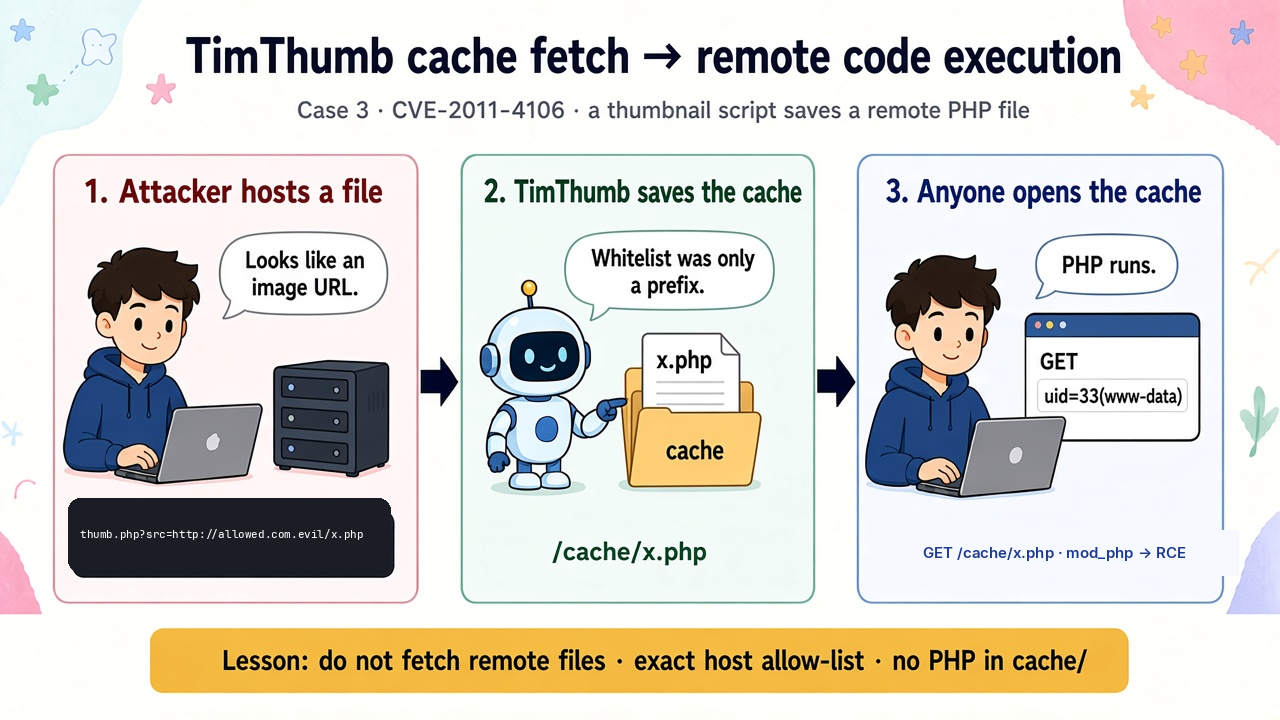
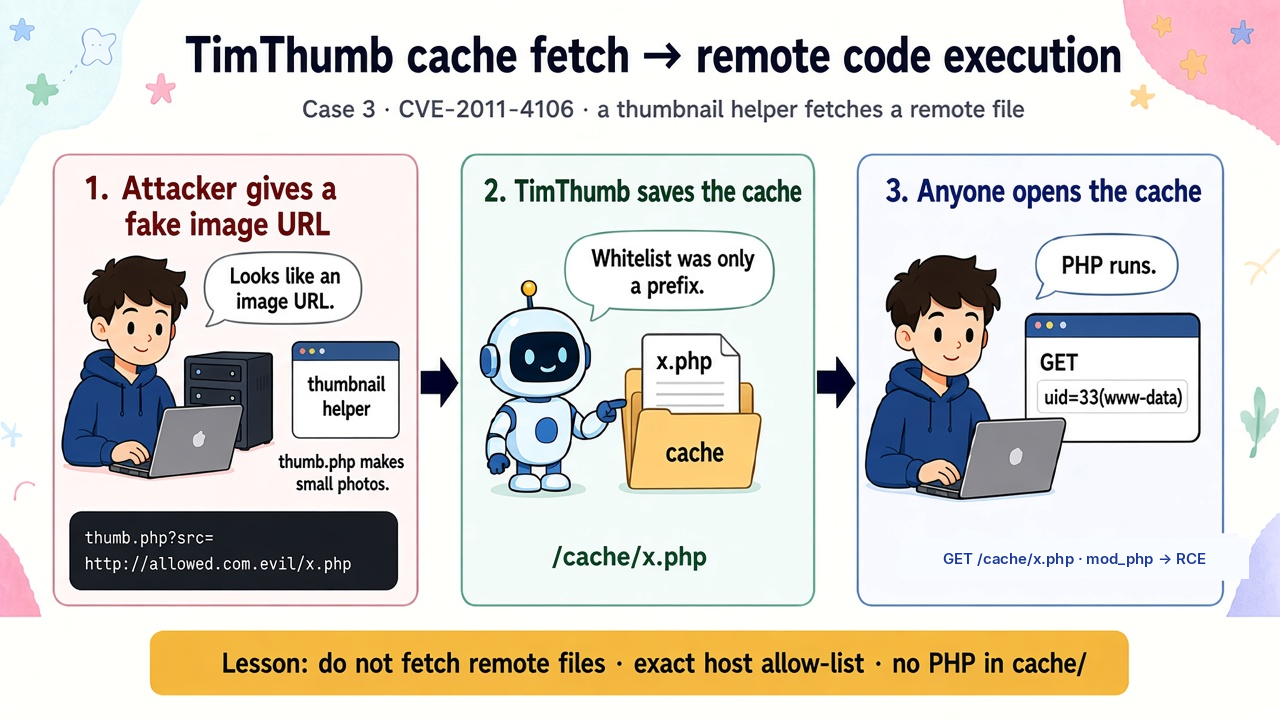
Show what thumb.php does and the full attacker URL

diff --git a/FileUpload/presentation/historical-cases/README.md b/FileUpload/presentation/historical-cases/README.md
@@ -74,7 +74,7 @@ Each case has a PNG in [`illustrations/`](illustrations/). Case **#1** uses **tw
 
 | | |
 |---|---|
-| **Illustration** | [`illustrations/hist-03-timthumb-story-720p.png`](illustrations/hist-03-timthumb-story-720p.png) — **TimThumb cache fetch → remote code execution** |
+| **Illustration** | [`illustrations/hist-03-timthumb-story-720p.png`](illustrations/hist-03-timthumb-story-720p.png) — **TimThumb cache fetch → remote code execution** · `thumb.php` makes small photos; attacker URL `http://allowed.com.evil/x.php` |
 | **CVE-2011-4106 (NVD)** | https://nvd.nist.gov/vuln/detail/CVE-2011-4106 |
 | **Mark Maunder — technical write-up** | https://markmaunder.com/2011/technical-details-and-scripts-of-the-wordpress-timthumb-php-hack/ |
 | **TimThumb 2.0 announcement** | https://www.binarymoon.co.uk/2011/08/timthumb-2/ |
